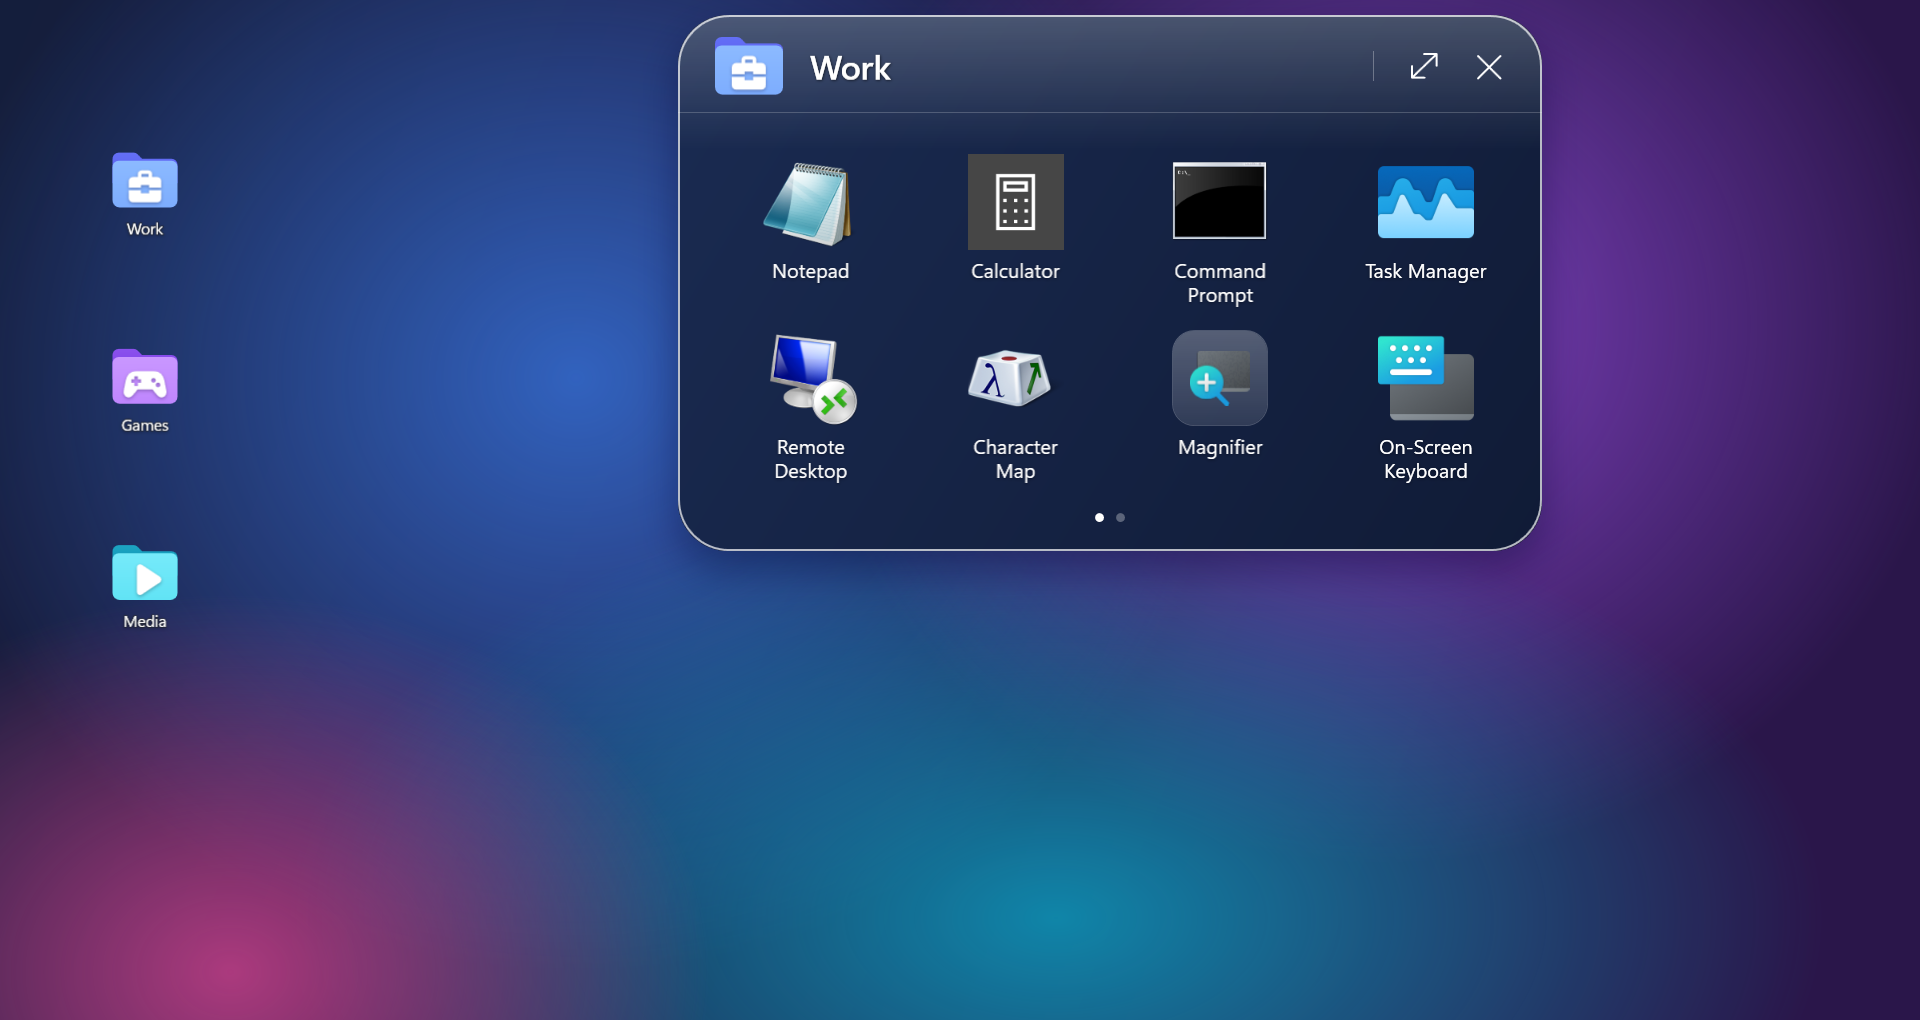
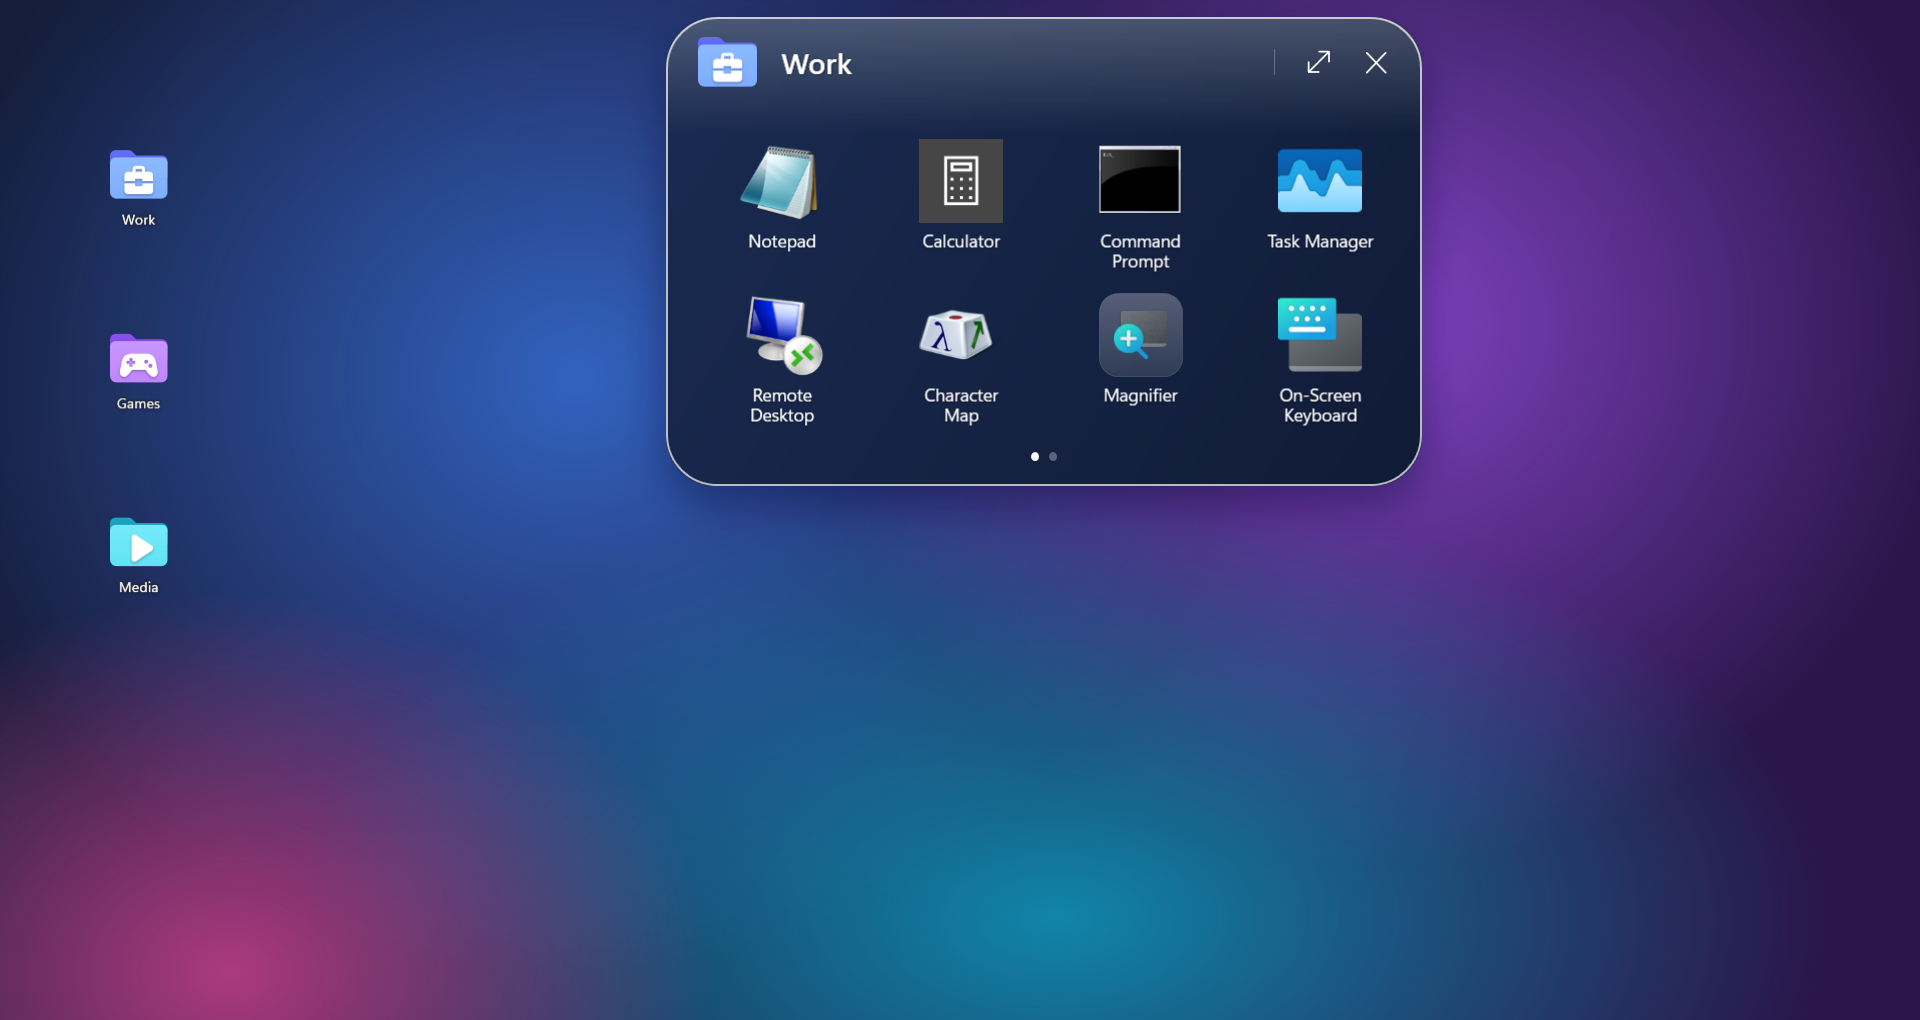
feat: popup at 70% and desktop folders at 46 px, screenshots retaken

diff --git a/tests/GlassFolders.Core.Tests/Layout/DesktopGridTests.cs b/tests/GlassFolders.Core.Tests/Layout/DesktopGridTests.cs
@@ -130,8 +130,8 @@ public class FolderTileMetricsTests
     {
         var m = FolderTileMetrics.For(Models.FolderSize.Medium, CellW, CellH);
 
-        Assert.Equal(52, m.IconWidth);
-        Assert.Equal(43.9, m.IconHeight);
+        Assert.Equal(46, m.IconWidth);
+        Assert.Equal(38.8, m.IconHeight);
         Assert.True(m.BoxWidth <= CellW, $"box {m.BoxWidth} wide");
         Assert.True(m.BoxHeight <= CellH, $"box {m.BoxHeight} tall");
     }
@@ -140,7 +140,7 @@ public class FolderTileMetricsTests
     public void PlateIsTheReferenceSizeWhenThereIsRoom()
     {
         var m = FolderTileMetrics.For(Models.FolderSize.Medium, 120, 110);
-        double scale = 52 / 64.0;
+        double scale = 46 / 64.0;
         Assert.Equal((Math.Max(Math.Round(142 * scale), m.BoxWidth + 8), Math.Round(115 * scale)), (m.PlateWidth, m.PlateHeight));
         Assert.Equal((m.PlateWidth + 40, m.PlateHeight + 40), (m.WindowWidth, m.WindowHeight));
     }
@@ -148,9 +148,9 @@ public class FolderTileMetricsTests
     [Fact]
     public void PlateIsHeldBackOnATightGrid()
     {
-        var m = FolderTileMetrics.For(Models.FolderSize.Medium, CellW, CellH);
+        var m = FolderTileMetrics.For(Models.FolderSize.Large, CellW, CellH);
         Assert.Equal(CellW + FolderTileMetrics.PlateReachX, m.PlateWidth);
-        Assert.Equal(Math.Round(115 * 52 / 64.0), m.PlateHeight);
+        Assert.Equal(Math.Max(Math.Round(115 * 56 / 64.0), m.BoxHeight + 8), m.PlateHeight);
     }
 
     [Fact]

diff --git a/src/GlassFolders.Core/Layout/FolderTileMetrics.cs b/src/GlassFolders.Core/Layout/FolderTileMetrics.cs
@@ -39,9 +39,9 @@ public readonly record struct FolderTileMetrics(
 
     public static double IconSizeFor(FolderSize size) => size switch
     {
-        FolderSize.Small => 40,
-        FolderSize.Large => 64,
-        _ => 52,
+        FolderSize.Small => 36,
+        FolderSize.Large => 56,
+        _ => 46,
     };
 
     public static double ScaleFor(FolderSize size) => IconSizeFor(size) / 64.0;
@@ -51,7 +51,7 @@ public readonly record struct FolderTileMetrics(
     {
         double icon = IconSizeFor(size);
         double iconHeight = Math.Round(icon * ArtAspect, 1);
-        double font = size switch { FolderSize.Small => 11.5, FolderSize.Large => 14, _ => 12.5 };
+        double font = size switch { FolderSize.Small => 10.5, FolderSize.Large => 13, _ => 11.5 };
         double line = Math.Ceiling(font * 1.34);
 
         // Labels are as wide as a grid cell, like Windows' own, but never narrower than the art.

diff --git a/src/GlassFolders.Core/Popup/PopupLayout.cs b/src/GlassFolders.Core/Popup/PopupLayout.cs
@@ -34,7 +34,7 @@ public static class PopupMetrics
     public const double CellHeight = 176;
 
     /// <summary>The popup is drawn this much of the reference size, so it sits more lightly on the desktop.</summary>
-    public const double SizeScale = 0.8;
+    public const double SizeScale = 0.7;
 
     public static double CardWidth(int columns) => GridLeft + columns * CellWidth + GridRight;
 

diff --git a/DEVLOG.md b/DEVLOG.md
@@ -243,7 +243,7 @@ Branch `main`.
 
 - `tools/ScreenshotCapture` rewritten: neutral drawn wallpaper window, real `FolderTile`, `FolderPopup`, `SettingsWindow` and `FolderEditorDialog` on it, pixels read from the screen. Six images replace the old off-screen renders in `docs/screenshots`. The popup crop is clamped to the monitor.
 - Sample folders use Windows' own programs, after the first run showed warning badges on programs this PC doesn't have.
-- Owner said the look was too big: popup scaled to 0.9, then 0.8 on a second request (`PopupMetrics.SizeScale`), folder art 64 to 52 px, labels 15.5 to 12.5. Folder boxes still fit one desktop cell. Screenshots retaken.
+- Owner said the look was too big: popup scaled to 0.9, 0.8, then 0.7 on the owner's repeated requests (`PopupMetrics.SizeScale`), folder art 64 to 46 px, labels 15.5 to 11.5. Folder boxes still fit one desktop cell. Screenshots retaken.
 - Version set to 1.1.0 (props, installer). README status, gallery note, CHANGELOG, KNOWN-ISSUES (untested list) and ARCHITECTURE updated.
 - Checked by eye: no personal data in any image (sandbox config, no desktop icons, taskbar left out).
 - Not done: the installer build and test, and the release. The release waits for the owner's approval of the look.

diff --git a/CHANGELOG.md b/CHANGELOG.md
@@ -10,7 +10,7 @@ and this project adheres to [Semantic Versioning](https://semver.org/spec/v2.0.0
 ## [Unreleased]
 
 ### Changed (size)
-- **Smaller:** the popup is drawn at 80 % of the reference size (about 691 × 429 DIP) and desktop folders at 52 px, down from 64, with the labels scaled to match. Screens too small for the card still shrink it further.
+- **Smaller:** the popup is drawn at 70 % of the reference size (about 605 × 375 DIP) and desktop folders at 46 px, down from 64, with the labels scaled to match. Screens too small for the card still shrink it further.
 
 ### Added
 - **Screenshot tool:** `tools/ScreenshotCapture` now takes real on-screen captures. It draws a neutral wallpaper full screen, opens the real popup, Settings and folder editor on it and reads the screen back, so the glass in the README is the app's real glass. It uses Windows' own programs for the sample items, so no icon shows a missing badge.
